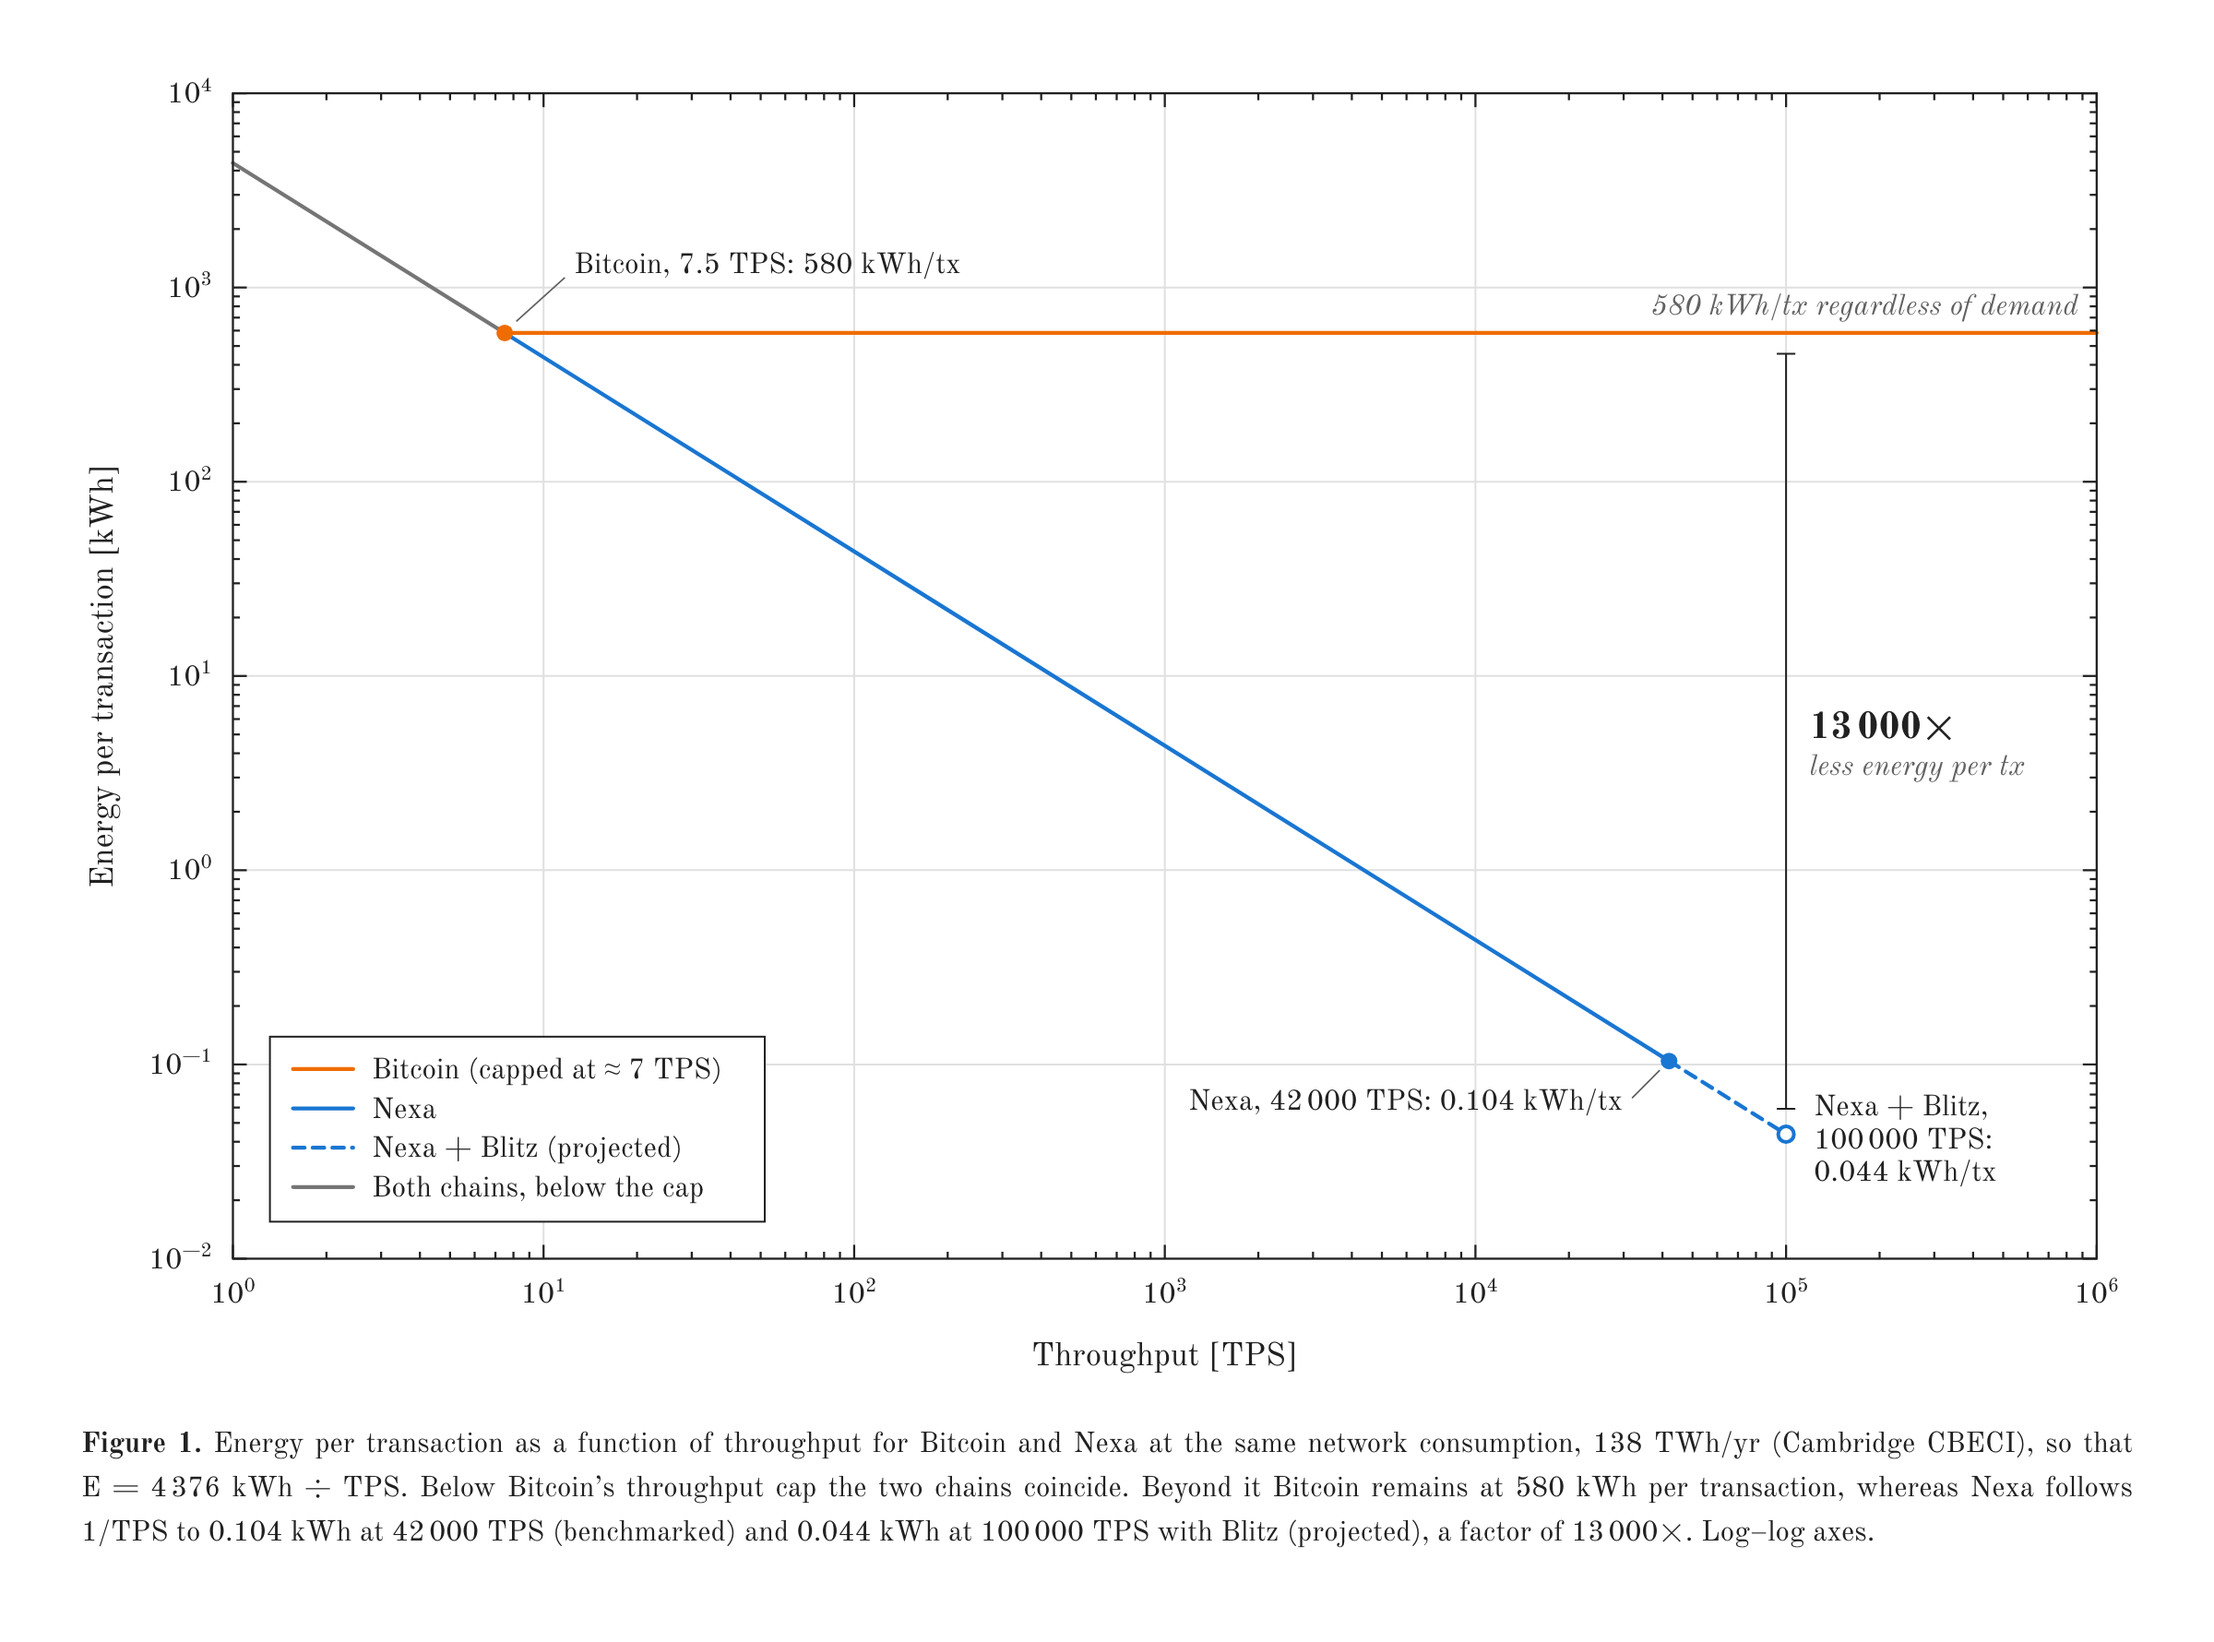
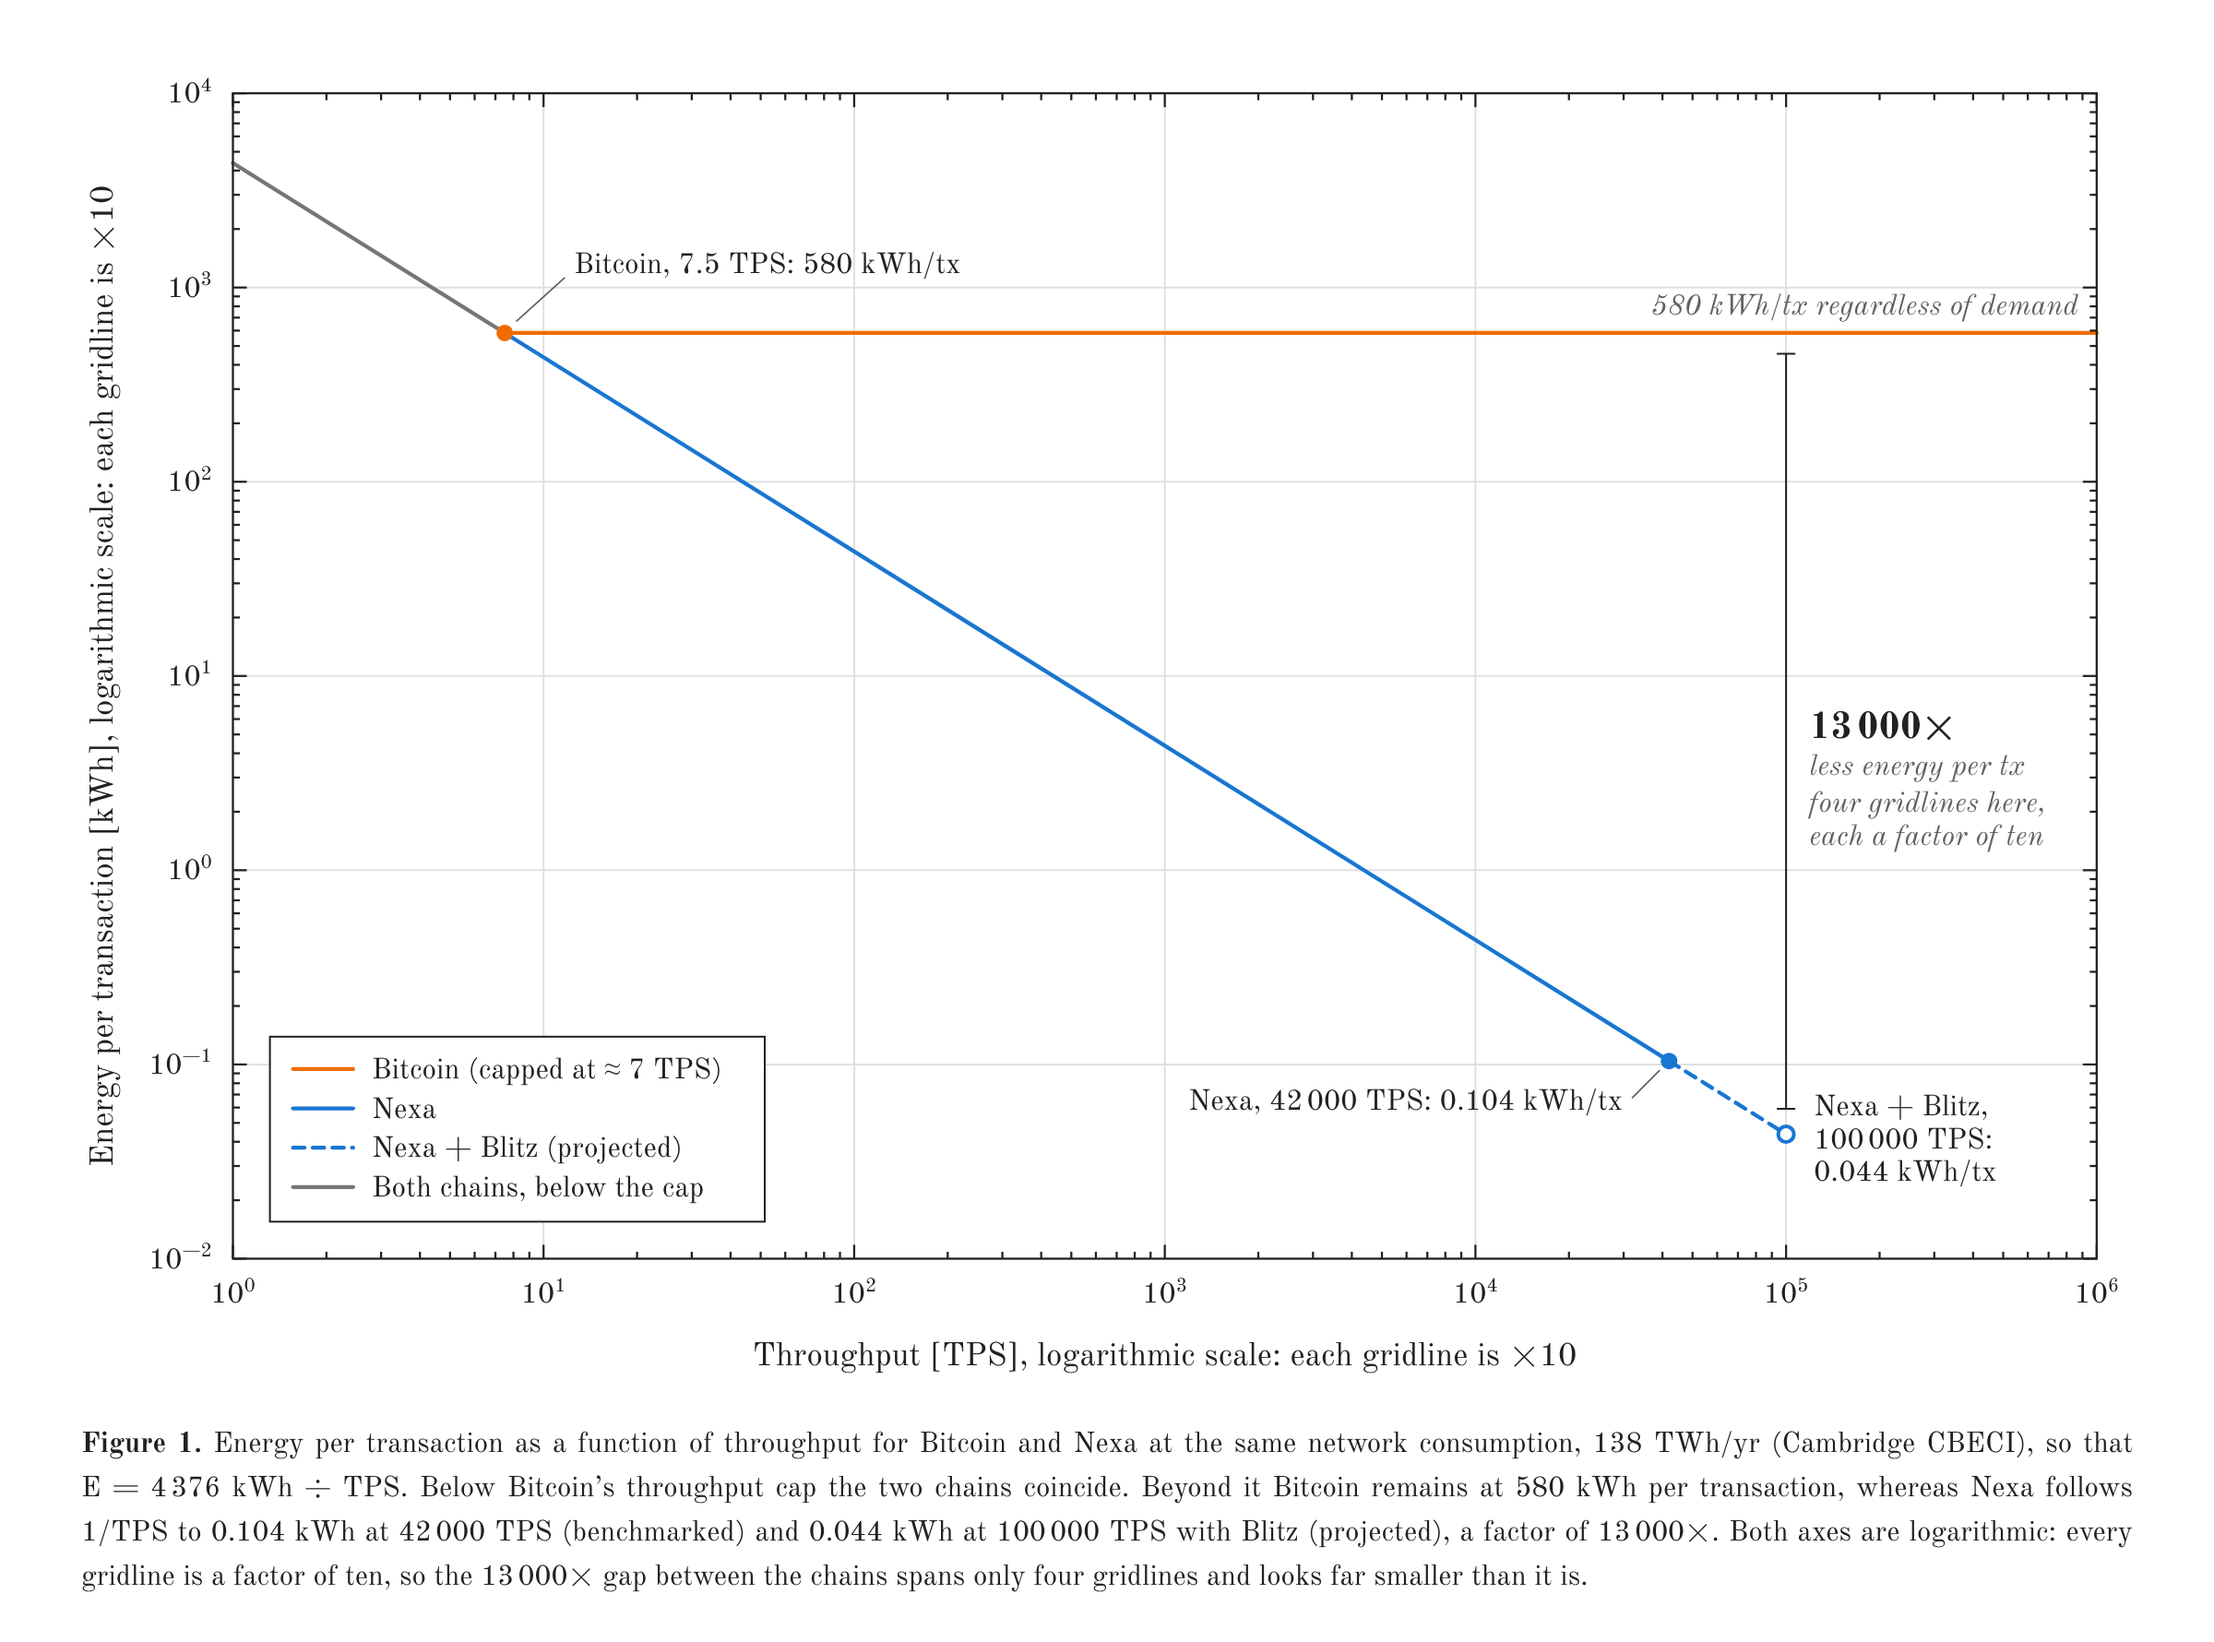
Point out the logarithmic axes

diff --git a/index.html b/index.html
@@ -114,7 +114,7 @@ td .st{font-size:11.5px;color:var(--muted);margin-left:8px}
   <header class="intro">
     <h1>Same joules, different denominator</h1>
     <p>Nexa is a proof-of-work blockchain in the Bitcoin lineage: the same UTXO accounting and the same kind of mining, but engineered for throughput on the base layer, with native tokens and script-template contracts instead of a second layer. Its bottlenecks are the ones every UTXO chain hits on general-purpose CPUs, signature checks and coin lookups. Nexa benchmarks 42 000 transactions per second today; Blitz moves those two steps onto FPGAs, with a projected 100 000 TPS.</p>
-    <p>This figure accompanies the article <em>1 Bitcoin transaction: 580 kWh. 1 Nexa transaction with Blitz: 0.044 kWh.</em> Its argument is arithmetic. A proof-of-work network burns whatever the block reward pays for, however many transactions it carries, so energy per transaction is network electricity divided by throughput. Ten years of debate have been about the numerator. The figure fixes it at the Cambridge estimate, 138 TWh a year, and moves the denominator, the only term a protocol can change.</p>
+    <p>This figure accompanies the article <em>1 Bitcoin transaction: 580 kWh. 1 Nexa transaction with Blitz: 0.044 kWh.</em> Its argument is arithmetic. A proof-of-work network burns whatever the block reward pays for, however many transactions it carries, so energy per transaction is network electricity divided by throughput. Ten years of debate have been about the numerator. The figure fixes it at the Cambridge estimate, 138 TWh a year, and moves the denominator, the only term a protocol can change. Read the axes before the lines: both are logarithmic, each gridline a factor of ten, which squeezes a 13 000× gap into four gridlines.</p>
   </header>
   <div class="controls">
     <div class="dl" aria-label="Download the figure">
@@ -127,7 +127,7 @@ td .st{font-size:11.5px;color:var(--muted);margin-left:8px}
     <div class="fig" id="fig">
       <svg id="chart" viewBox="0 0 900 580" role="img" tabindex="0" aria-labelledby="figtitle figdesc">
         <title id="figtitle">Energy per transaction versus throughput for Bitcoin and Nexa, log–log</title>
-        <desc id="figdesc">Both chains share one line up to Bitcoin's throughput cap near 7 transactions per second. Bitcoin then stays flat at about 580 kWh per transaction. Nexa continues along one over TPS: 0.104 kWh at 42 000 TPS and 0.044 kWh at 100 000 TPS with Blitz. Values are repeated in the table below the figure.</desc>
+        <desc id="figdesc">Both chains share one line up to Bitcoin's throughput cap near 7 transactions per second. Bitcoin then stays flat at about 580 kWh per transaction. Nexa continues along one over TPS: 0.104 kWh at 42 000 TPS and 0.044 kWh at 100 000 TPS with Blitz. Both axes are logarithmic. Values are repeated in the table below the figure.</desc>
         <g id="layer"></g>
         <g id="hover" hidden>
           <line id="xhair" class="xhair"/>
@@ -236,14 +236,16 @@ td .st{font-size:11.5px;color:var(--muted);margin-left:8px}
     function tickY(yy,len){ return '<line class="tk" y1="'+yy+'" y2="'+yy+'" x1="'+M.l+'" x2="'+(M.l+len)+'"/><line class="tk" y1="'+yy+'" y2="'+yy+'" x1="'+right+'" x2="'+(right-len)+'"/>'; }
     for (d=XD[0]; d<=XD[1]; d++){ x=sx(Math.pow(10,d)); s+=tickX(x,6); s+=pow10(x, bottom+19, d, 'middle'); if(d<XD[1]) for(m=2;m<10;m++) s+=tickX(sx(m*Math.pow(10,d)),3); }
     for (d=YD[0]; d<=YD[1]; d++){ y=sy(Math.pow(10,d)); s+=tickY(y,6); s+=pow10(M.l-9, y+4, d, 'end'); if(d<YD[1]) for(m=2;m<10;m++) s+=tickY(sy(m*Math.pow(10,d)),3); }
-    s+=text(M.l+PW/2, H-12, 'Throughput [TPS]', 'axl', 'middle');
-    s+='<text class="axl" text-anchor="middle" transform="translate(20 '+(M.t+PH/2)+') rotate(-90)">Energy per transaction [kWh]</text>';
+    s+=text(M.l+PW/2, H-12, 'Throughput [TPS], logarithmic scale: each gridline is ×10', 'axl', 'middle');
+    s+='<text class="axl" text-anchor="middle" transform="translate(20 '+(M.t+PH/2)+') rotate(-90)">Energy per transaction [kWh], logarithmic scale: each gridline is ×10</text>';
 
     // bracket at 100 000 TPS
     s+='<path class="bracket" d="M'+(xB-4)+' '+(yK+9)+' h8 M'+xB+' '+(yK+9)+' V'+(yB-11)+' M'+(xB-4)+' '+(yB-11)+' h8"/>';
     var yMid=(yK+yB)/2;
     s+=text(xB+10, yMid+2, fmtRatio(NEXA_BLITZ/BTC_TPS), 'ann-b');
     s+=text(xB+10, yMid+18, 'less energy per tx', 'ann-i');
+    s+=text(xB+10, yMid+34, 'four gridlines here,', 'ann-i');
+    s+=text(xB+10, yMid+48, 'each a factor of ten', 'ann-i');
 
     // markers
     s+='<circle cx="'+xK+'" cy="'+yK+'" r="3.6" fill="var(--btc)"/>';
@@ -274,7 +276,7 @@ td .st{font-size:11.5px;color:var(--muted);margin-left:8px}
     cap.textContent = '';
     var b = document.createElement('b'); b.textContent = 'Figure 1. ';
     cap.appendChild(b);
-    cap.appendChild(document.createTextNode('Energy per transaction as a function of throughput for Bitcoin and Nexa at the same network consumption, '+energy+' TWh/yr ('+E.src+'), so that E = '+kStr+' kWh ÷ TPS. Below Bitcoin’s throughput cap the two chains coincide. Beyond it Bitcoin remains at '+fmtKwh(kwh(BTC_TPS))+' kWh per transaction, whereas Nexa follows 1/TPS to '+fmtKwh(kwh(NEXA_NOW))+' kWh at '+group(NEXA_NOW)+' TPS (benchmarked) and '+fmtKwh(kwh(NEXA_BLITZ))+' kWh at '+group(NEXA_BLITZ)+' TPS with Blitz (projected), a factor of '+fmtRatio(NEXA_BLITZ/BTC_TPS)+'. Log–log axes.'));
+    cap.appendChild(document.createTextNode('Energy per transaction as a function of throughput for Bitcoin and Nexa at the same network consumption, '+energy+' TWh/yr ('+E.src+'), so that E = '+kStr+' kWh ÷ TPS. Below Bitcoin’s throughput cap the two chains coincide. Beyond it Bitcoin remains at '+fmtKwh(kwh(BTC_TPS))+' kWh per transaction, whereas Nexa follows 1/TPS to '+fmtKwh(kwh(NEXA_NOW))+' kWh at '+group(NEXA_NOW)+' TPS (benchmarked) and '+fmtKwh(kwh(NEXA_BLITZ))+' kWh at '+group(NEXA_BLITZ)+' TPS with Blitz (projected), a factor of '+fmtRatio(NEXA_BLITZ/BTC_TPS)+'. Both axes are logarithmic: every gridline is a factor of ten, so the '+fmtRatio(NEXA_BLITZ/BTC_TPS)+' gap between the chains spans only four gridlines and looks far smaller than it is.'));
     document.getElementById('tBtc').textContent = fmtKwh(kwh(BTC_TPS));
     document.getElementById('tNow').textContent = fmtKwh(kwh(NEXA_NOW));
     document.getElementById('tBl').textContent = fmtKwh(kwh(NEXA_BLITZ));

diff --git a/README.md b/README.md
@@ -39,6 +39,8 @@ kWh per transaction = network electricity per second ÷ TPS
 
 Below Bitcoin's throughput cap (~7 TPS, 7–14 theoretical) the two chains coincide. Beyond it
 Bitcoin stays flat because the protocol cannot add throughput; Nexa continues along 1/TPS.
+Both axes of the figure are logarithmic, each gridline a factor of ten, so the 13 000× gap spans only
+four gridlines and looks far smaller than it is.
 
 ## Files
 
